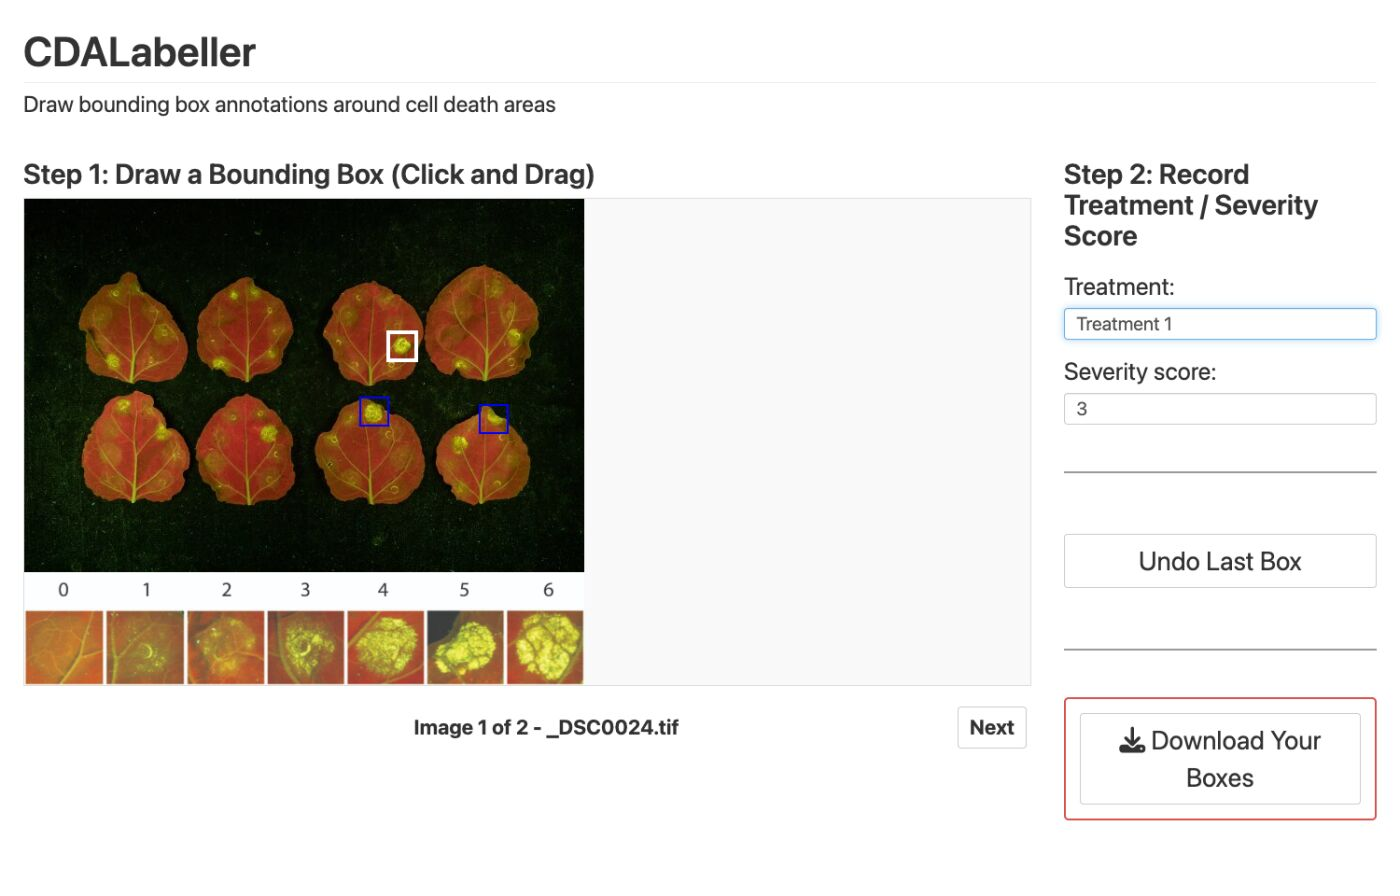
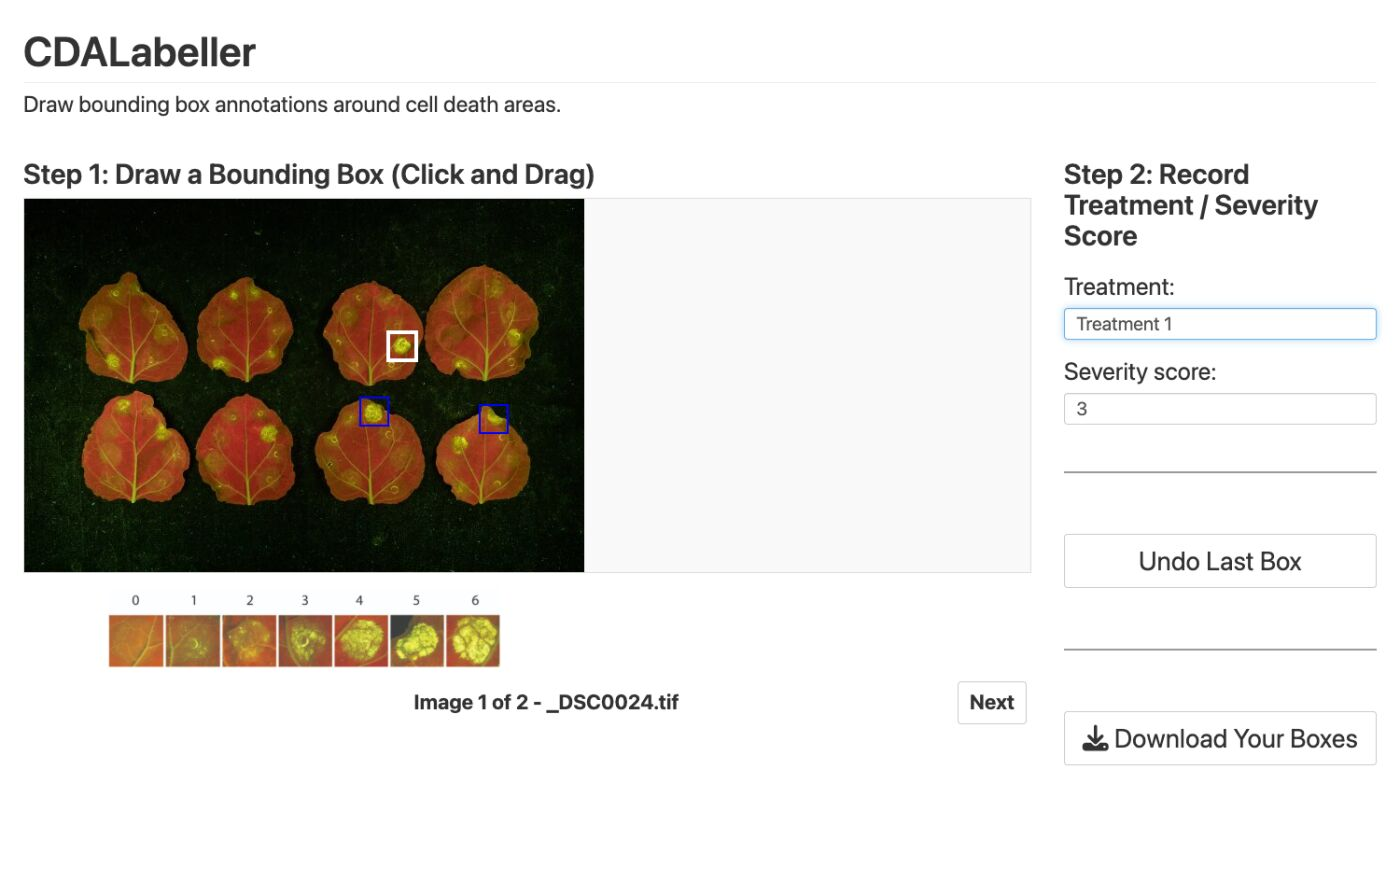
Put the scoring key in its own row; plain download button; subtitle full stop
- The scoring key was inside the image area, under the image. It could not be
  drawn on (the canvas covers only the image, and real mouse input on the key
  records no box), but it is now in its own row below the drawing area and
  above the image counter. The row takes the image's width and left edge, and
  the key is centred in it at 70% of that width. A new e2e test checks that
  the key is below the canvas, centred on the image, and is what a pointer at
  its centre hits.
- The download button loses its red box and has the same size and spacing as
  Undo Last Box.
- 'Draw bounding box annotations around cell death areas.' gains a full stop.
- README screenshot retaken.

Changed region(s): [[0.0, 0.6562, 0.4914, 0.8438], [0.7679, 0.75, 0.9829, 0.9375], [0.6757, 0.75, 0.7371, 0.8438]]

diff --git a/inst/app/www/modules/canvasUtils.js b/inst/app/www/modules/canvasUtils.js
@@ -40,7 +40,7 @@ export function ensureCanvasSize() {
     // Stop if Shiny has since replaced this image; its own call takes over
     if (image !== document.querySelector("#output_image img")) return;
     if (image.complete && image.offsetWidth > 0 && image.offsetHeight > 0) {
-      document.getElementById("score-key").style.width = image.offsetWidth + "px";
+      alignKeyRow(image);
       redraw();
       appState.isReady = true;
       appState.canvas.style.visibility = "visible";
@@ -50,6 +50,19 @@ export function ensureCanvasSize() {
     }
   };
   checkImageSize();
+}
+
+/**
+ * Gives the scoring key's row the displayed image's width and left edge, so the
+ * key, centred in the row, is centred on the image.
+ * @param {HTMLImageElement} image - The displayed source image.
+ */
+function alignKeyRow(image) {
+  const row = document.getElementById("score-key-row");
+  row.style.width = image.offsetWidth + "px";
+  row.style.marginLeft = "0px";
+  const shift = image.getBoundingClientRect().left - row.getBoundingClientRect().left;
+  row.style.marginLeft = shift + "px";
 }
 
 /**

diff --git a/inst/app/www/styles.css b/inst/app/www/styles.css
@@ -80,11 +80,17 @@ h4 {
   cursor: crosshair;
 }
 
-/* Width is set to the displayed image's width in canvasUtils.js */
+/* The row's width is set to the displayed image's width in canvasUtils.js, so
+   the key is centred on the image */
+#score-key-row {
+  margin-top: 10px;
+}
+
 #score-key {
   display: block;
-  max-width: 100%;
+  width: 70%;
   height: auto;
+  margin: 0 auto;
 }
 
 .image-nav {
@@ -134,9 +140,6 @@ h4 {
 #undoButton,
 #download_data {
   font-size: 1.4rem;
-}
-
-#undoButton {
   margin: 15px 0;
 }
 
@@ -144,11 +147,4 @@ h4 {
   margin: 50px 0;
   border: 0;
   border-top: 2px solid #999;
-}
-
-#download-box {
-  border: 2px solid #d9534f;
-  border-radius: 5px;
-  padding: 15px;
-  margin-top: 15px;
 }

diff --git a/NEWS.md b/NEWS.md
@@ -28,7 +28,8 @@
 ## New features
 
 * A cell death severity scoring key is shown below the source image. It gives
-  an example CDA for each score from 0 to 6. It is resized to match the image.
+  an example CDA for each score from 0 to 6. It is centred under the image and
+  scales with it.
 * Each annotation records when the bounding box was drawn, the source image's
   MD5 checksum and the CDALabeller version.
 * Uploads are rejected if two files have the same name.
